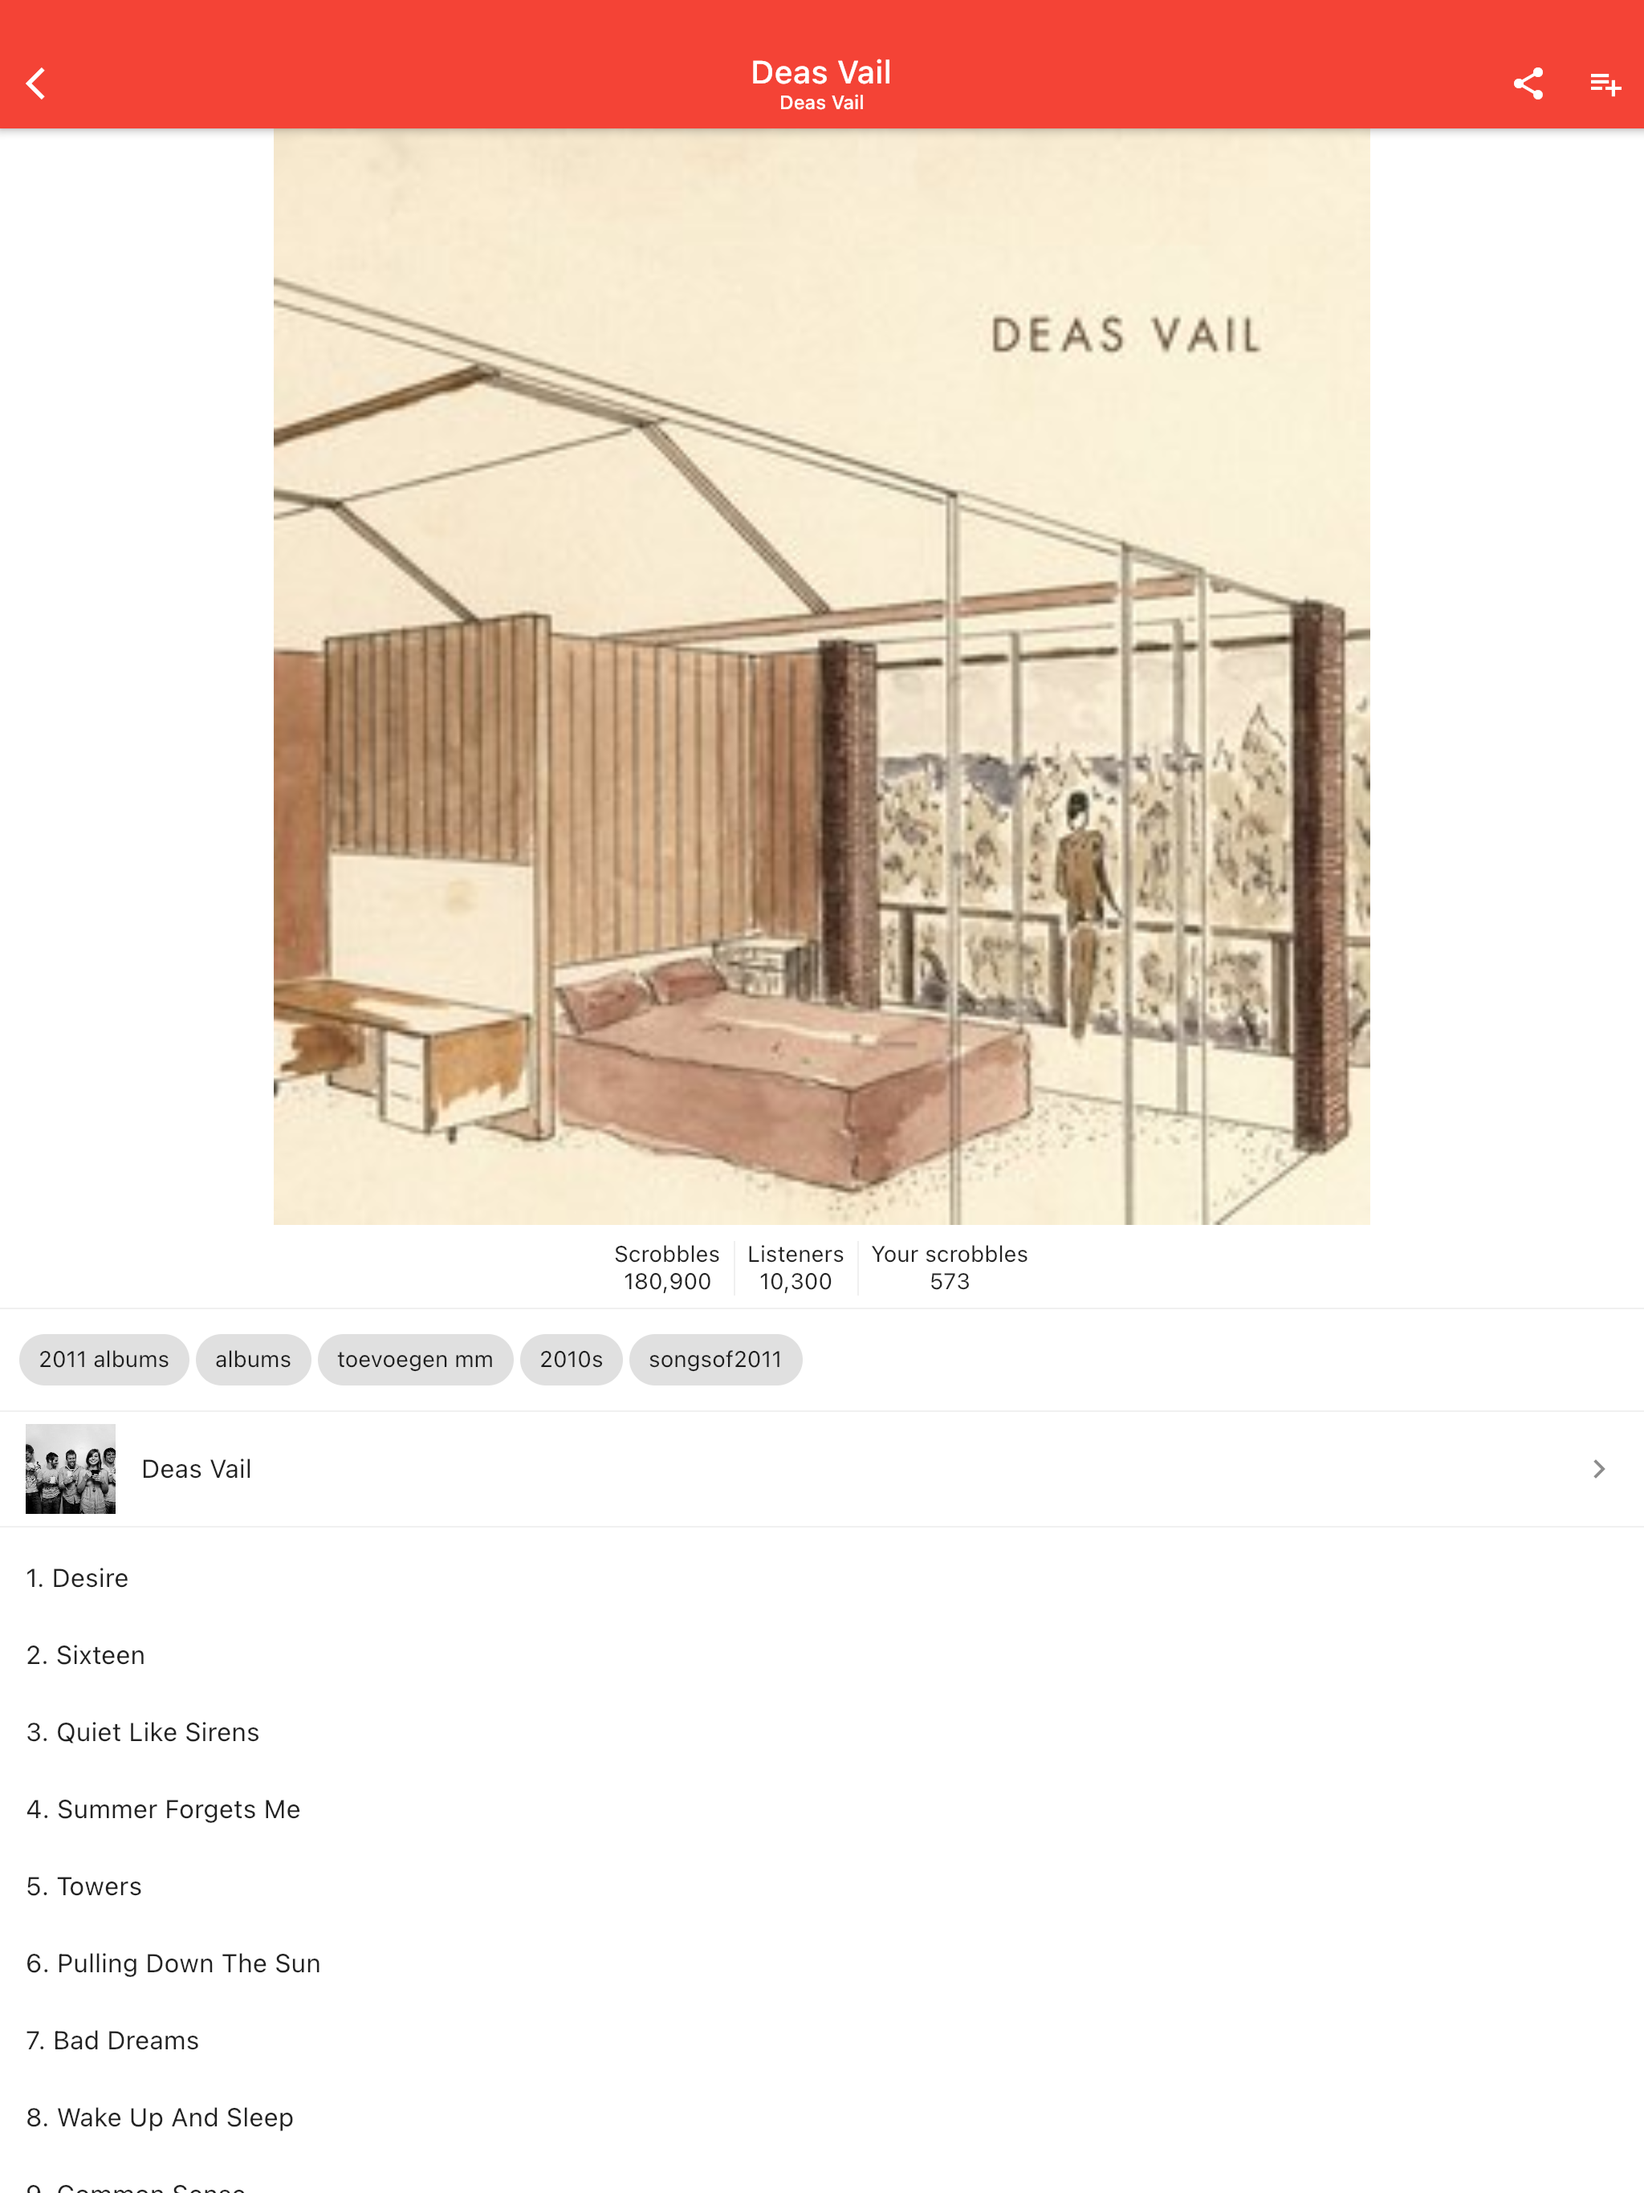
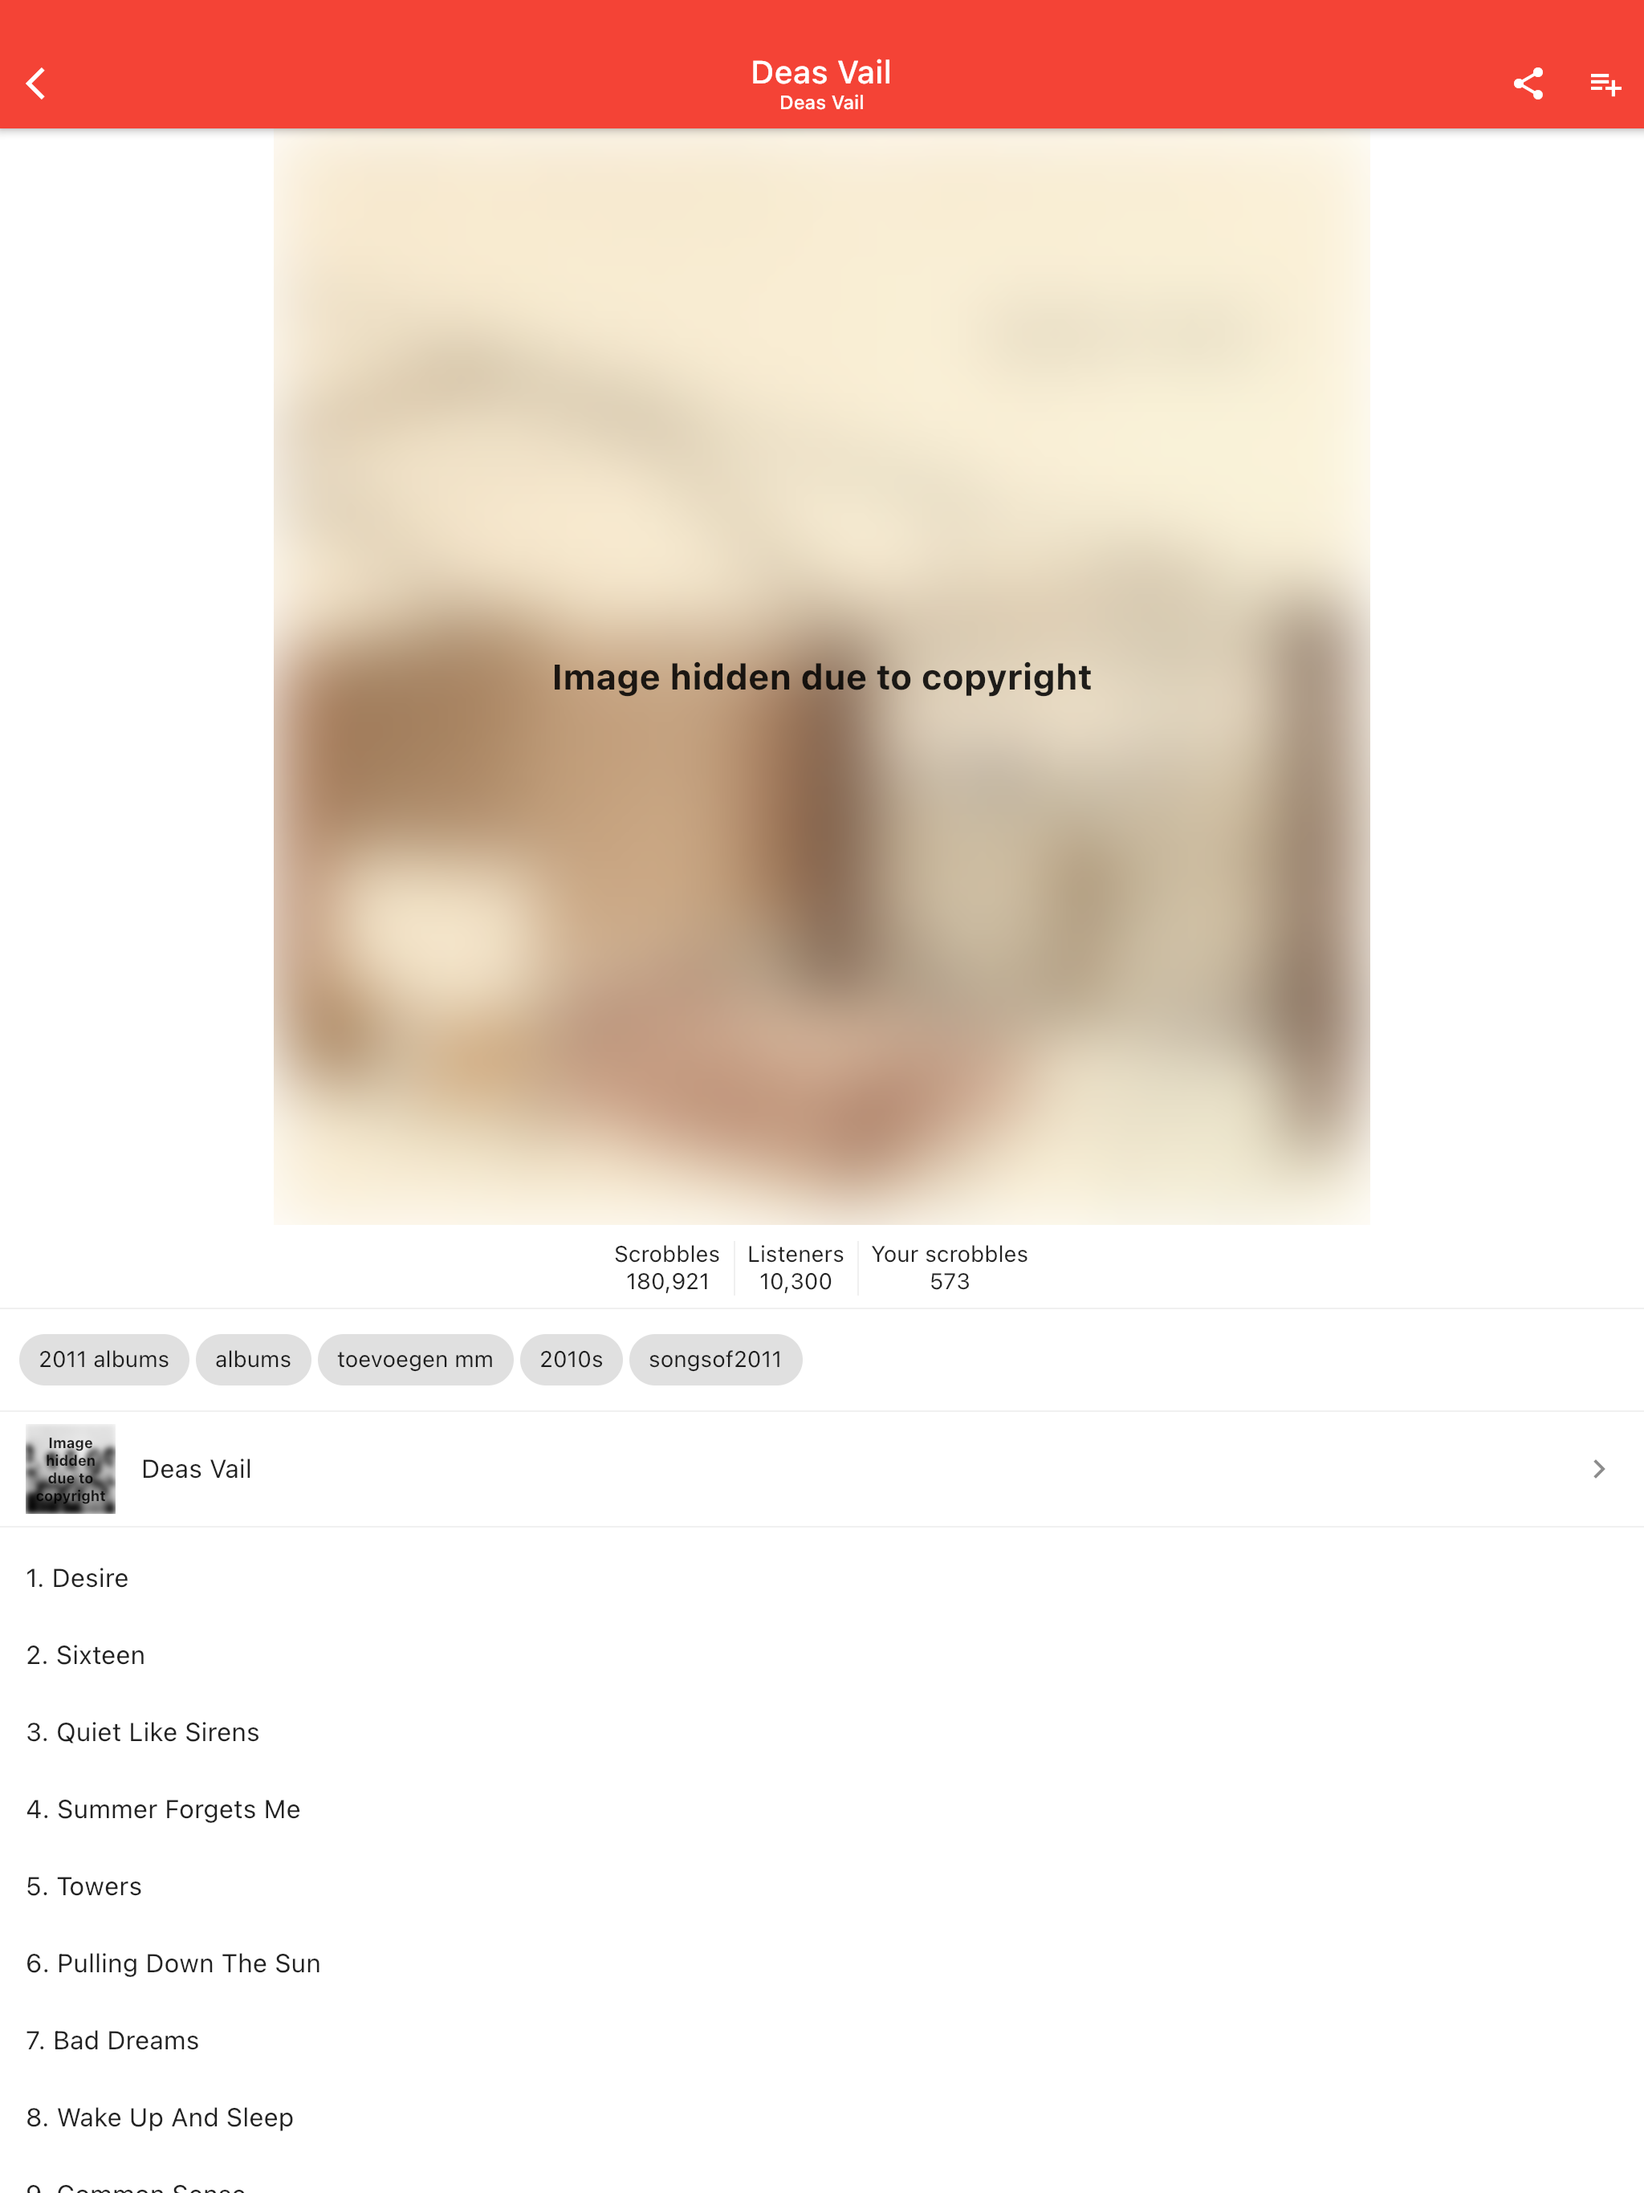
Censor images in screenshots due to copyright

diff --git a/lib/components/image_component.dart b/lib/components/image_component.dart
@@ -1,7 +1,11 @@
+import 'dart:ui';
+
+import 'package:auto_size_text/auto_size_text.dart';
 import 'package:cached_network_image/cached_network_image.dart';
 import 'package:finale/services/generic.dart';
 import 'package:finale/services/image_id.dart';
 import 'package:finale/util/image_id_cache.dart';
+import 'package:finale/util/util.dart';
 import 'package:flutter/material.dart';
 
 class ImageComponent extends StatelessWidget {
@@ -64,7 +68,46 @@ class ImageComponent extends StatelessWidget {
         fit: fit,
         width: width);
 
-    return isCircular ? _buildCircularImage(context, image) : image;
+    Widget imageWidget =
+        isCircular ? _buildCircularImage(context, image) : image;
+
+    assert(() {
+      if (censorImages && entity.type != EntityType.user) {
+        imageWidget = ClipRect(
+          child: Stack(children: [
+            imageWidget,
+            Positioned.fill(
+              child: LayoutBuilder(
+                builder: (_, constraints) => BackdropFilter(
+                  filter: ImageFilter.blur(
+                    sigmaX: constraints.maxWidth / 30,
+                    sigmaY: constraints.maxWidth / 30,
+                  ),
+                  child: const Center(
+                    child: Padding(
+                      padding: EdgeInsets.all(4),
+                      child: AutoSizeText(
+                        'Image hidden due to copyright',
+                        textAlign: TextAlign.center,
+                        minFontSize: 8,
+                        style: TextStyle(
+                          fontSize: 22,
+                          fontWeight: FontWeight.bold,
+                        ),
+                      ),
+                    ),
+                  ),
+                ),
+              ),
+            ),
+          ]),
+        );
+      }
+
+      return true;
+    }());
+
+    return imageWidget;
   }
 
   @override

diff --git a/integration_test/screenshot_test.dart b/integration_test/screenshot_test.dart
@@ -26,6 +26,8 @@ const directory =
     '/Users/nrubin29/Documents/FlutterProjects/finale/screenshots/$device';
 
 Future<void> main() async {
+  censorImages = true;
+
   if (isIos) {
     await Directory(directory).create();
   }

diff --git a/lib/util/util.dart b/lib/util/util.dart
@@ -6,6 +6,7 @@ import 'package:package_info_plus/package_info_plus.dart';
 
 const isWeb = kIsWeb;
 const isMobile = !isWeb;
+var censorImages = false;
 
 String get authCallbackUrl {
   var callbackUrl =
